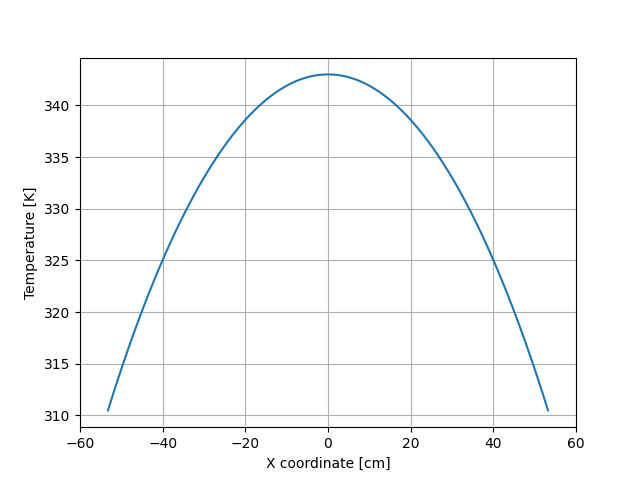
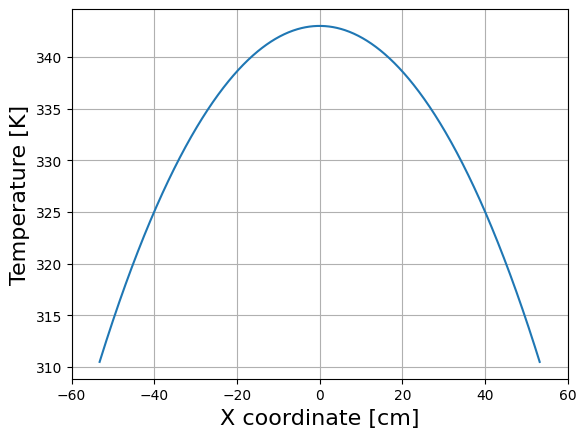
increased font size for paper figures

diff --git a/simulations/visualization/no_ss_no_mesh_template_flux_relaxation_on/visualize_results.py b/simulations/visualization/no_ss_no_mesh_template_flux_relaxation_on/visualize_results.py
@@ -28,12 +28,12 @@ for n in n_elems:
 plt.plot(log_N,log_temp_error_norms,'-ro',label=r'$\epsilon_{T}=\frac{||T_{a} - T_{x} ||_{2}}{|| T_{a} ||_{2}}$')
 plt.yticks(np.linspace(-6,-10,6))
 # plt.ticklabel_format(axis='y', style='sci', scilimits=(0,0))
-plt.xlabel(r"Log of number of X elements $\log(N)$")
-plt.ylabel(r"Log of Error Norm $log(\epsilon_{T})$")
+plt.xlabel(r"Log of number of X elements $\log(N)$",fontsize=16)
+plt.ylabel(r"Log of Error Norm $log(\epsilon_{T})$",fontsize=16)
 # plt.title("Temperature Error Norm vs Mesh Size \n 200 Picard Iterations",y=1)
 plt.legend(bbox_to_anchor=[0.985,0.985],fontsize=14)
 plt.grid()
-plt.savefig("temp_error_norms.png")
+plt.savefig("temp_error_norms.png",bbox_inches='tight')
 plt.clf()
 
 # linear polynomial fit to get slope of line of best fit temp
@@ -98,11 +98,11 @@ for n in n_elems:
     else:
         plt.plot(xx[n],temps[n])
     plt.xticks([-60,-40,-20,0,20,40,60])
-    plt.xlabel("X coordinate [cm]")
-    plt.ylabel("Temperature [K]")
+    plt.xlabel("X coordinate [cm]",fontsize=16)
+    plt.ylabel("Temperature [K]",fontsize=16)
     # plt.title(f"Temperature for {n} Mesh Elements")
     plt.grid()
-    plt.savefig(f"temp_{n}.png")
+    plt.savefig(f"temp_{n}.png",bbox_inches='tight')
     plt.clf()
 
 # dictioinaries for flux results and comparisons to temp and analytical solution key is number of elements
@@ -139,8 +139,8 @@ for n in n_elems:
     plt.plot(xx[n],ratios_temp_num_to_analy[n],label=f"{n} x-elem")
 plt.xticks([-60,-40,-20,0,20,40,60])
 plt.yticks([0.9995,1.000,1.001,1.002,1.003,1.004,1.0045])
-plt.xlabel("X Coordinate [cm]")
-plt.ylabel(r"Numerical $T(x)$ to Analytical $T(x)$ Ratio")
+plt.xlabel("X Coordinate [cm]",fontsize=16)
+plt.ylabel(r"Numerical $T(x)$ to Analytical $T(x)$ Ratio",fontsize=16)
 # plt.title(f"Ratio Numerical to Analytical Temp All Meshes. 200 Picard Iterations")
 plt.legend(ncol=2)
 plt.grid()
@@ -192,8 +192,8 @@ for n in n_elems:
     plt.plot(xx[n],ratios_flux_num_to_analy[n],label=f"{n} x-elem")
 plt.xticks([-60,-40,-20,0,20,40,60])
 plt.yticks([0.9995,1.000,1.001,1.002,1.003,1.004,1.0045])
-plt.xlabel("X Coordinate [cm]")
-plt.ylabel(r"Numerical $\phi(x)$ to Analytical $\phi(x)$ Ratio")
+plt.xlabel("X Coordinate [cm]",fontsize=16)
+plt.ylabel(r"Numerical $\phi(x)$ to Analytical $\phi(x)$ Ratio",fontsize=16)
 # plt.title("Ratio Numerical to Analytical Flux All Meshes. 200 Picard Iterations")
 plt.legend(ncol=2)
 plt.grid()
@@ -236,11 +236,11 @@ pf = np.polyfit(log_N,log_flux_error_norms,1)
 print("polyfit:" , pf)
 
 plt.plot(log_N,log_flux_error_norms,'-o',label=r'$\epsilon_{\phi}=\frac{||\phi_{a} - \phi_{x} ||_{2}}{|| \phi_{a} ||_{2}}$')
-plt.xlabel(r"Log of number of X elements $\log(N)$")
-plt.ylabel(r"Log of Error Norm $log(\epsilon_{\phi})$")
+plt.xlabel(r"Log of number of X elements $\log(N)$",fontsize=16)
+plt.ylabel(r"Log of Error Norm $log(\epsilon_{\phi})$",fontsize=16)
 # plt.title("Flux Error Norm vs Mesh Size \n 200 Picard Iterations with Relaxation")
 plt.yticks(np.linspace(-6,-10,6))
 plt.grid()
 plt.legend(bbox_to_anchor=[0.985,0.985],fontsize=14)
-plt.savefig("flux_error_norms.png")
+plt.savefig("flux_error_norms.png",bbox_inches='tight')
 plt.clf()
